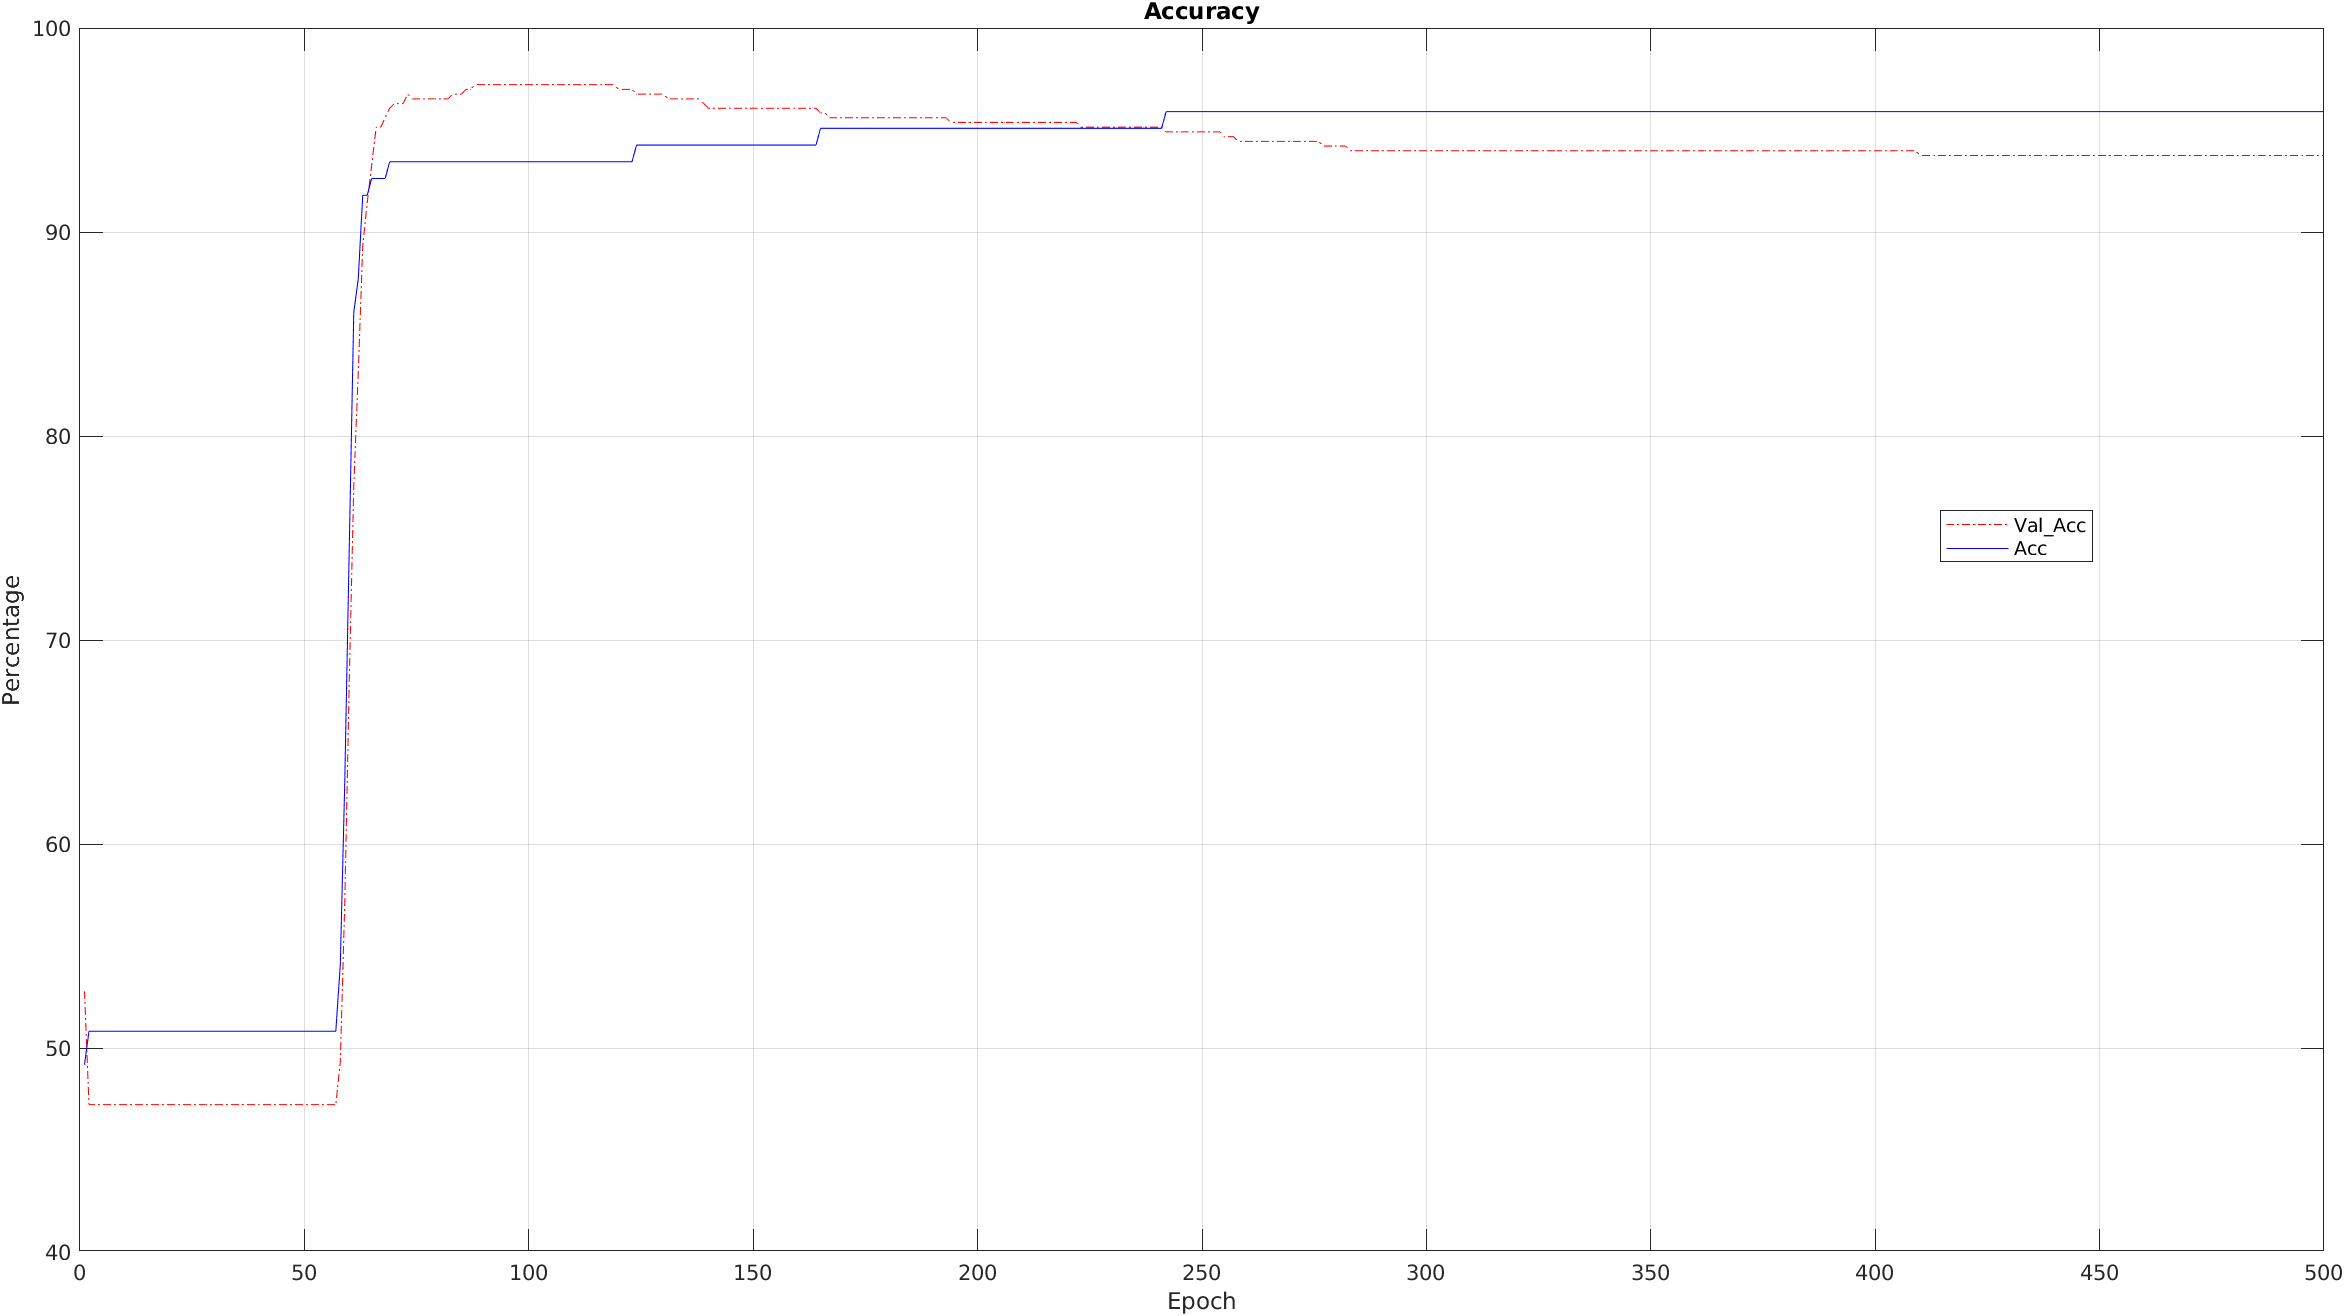
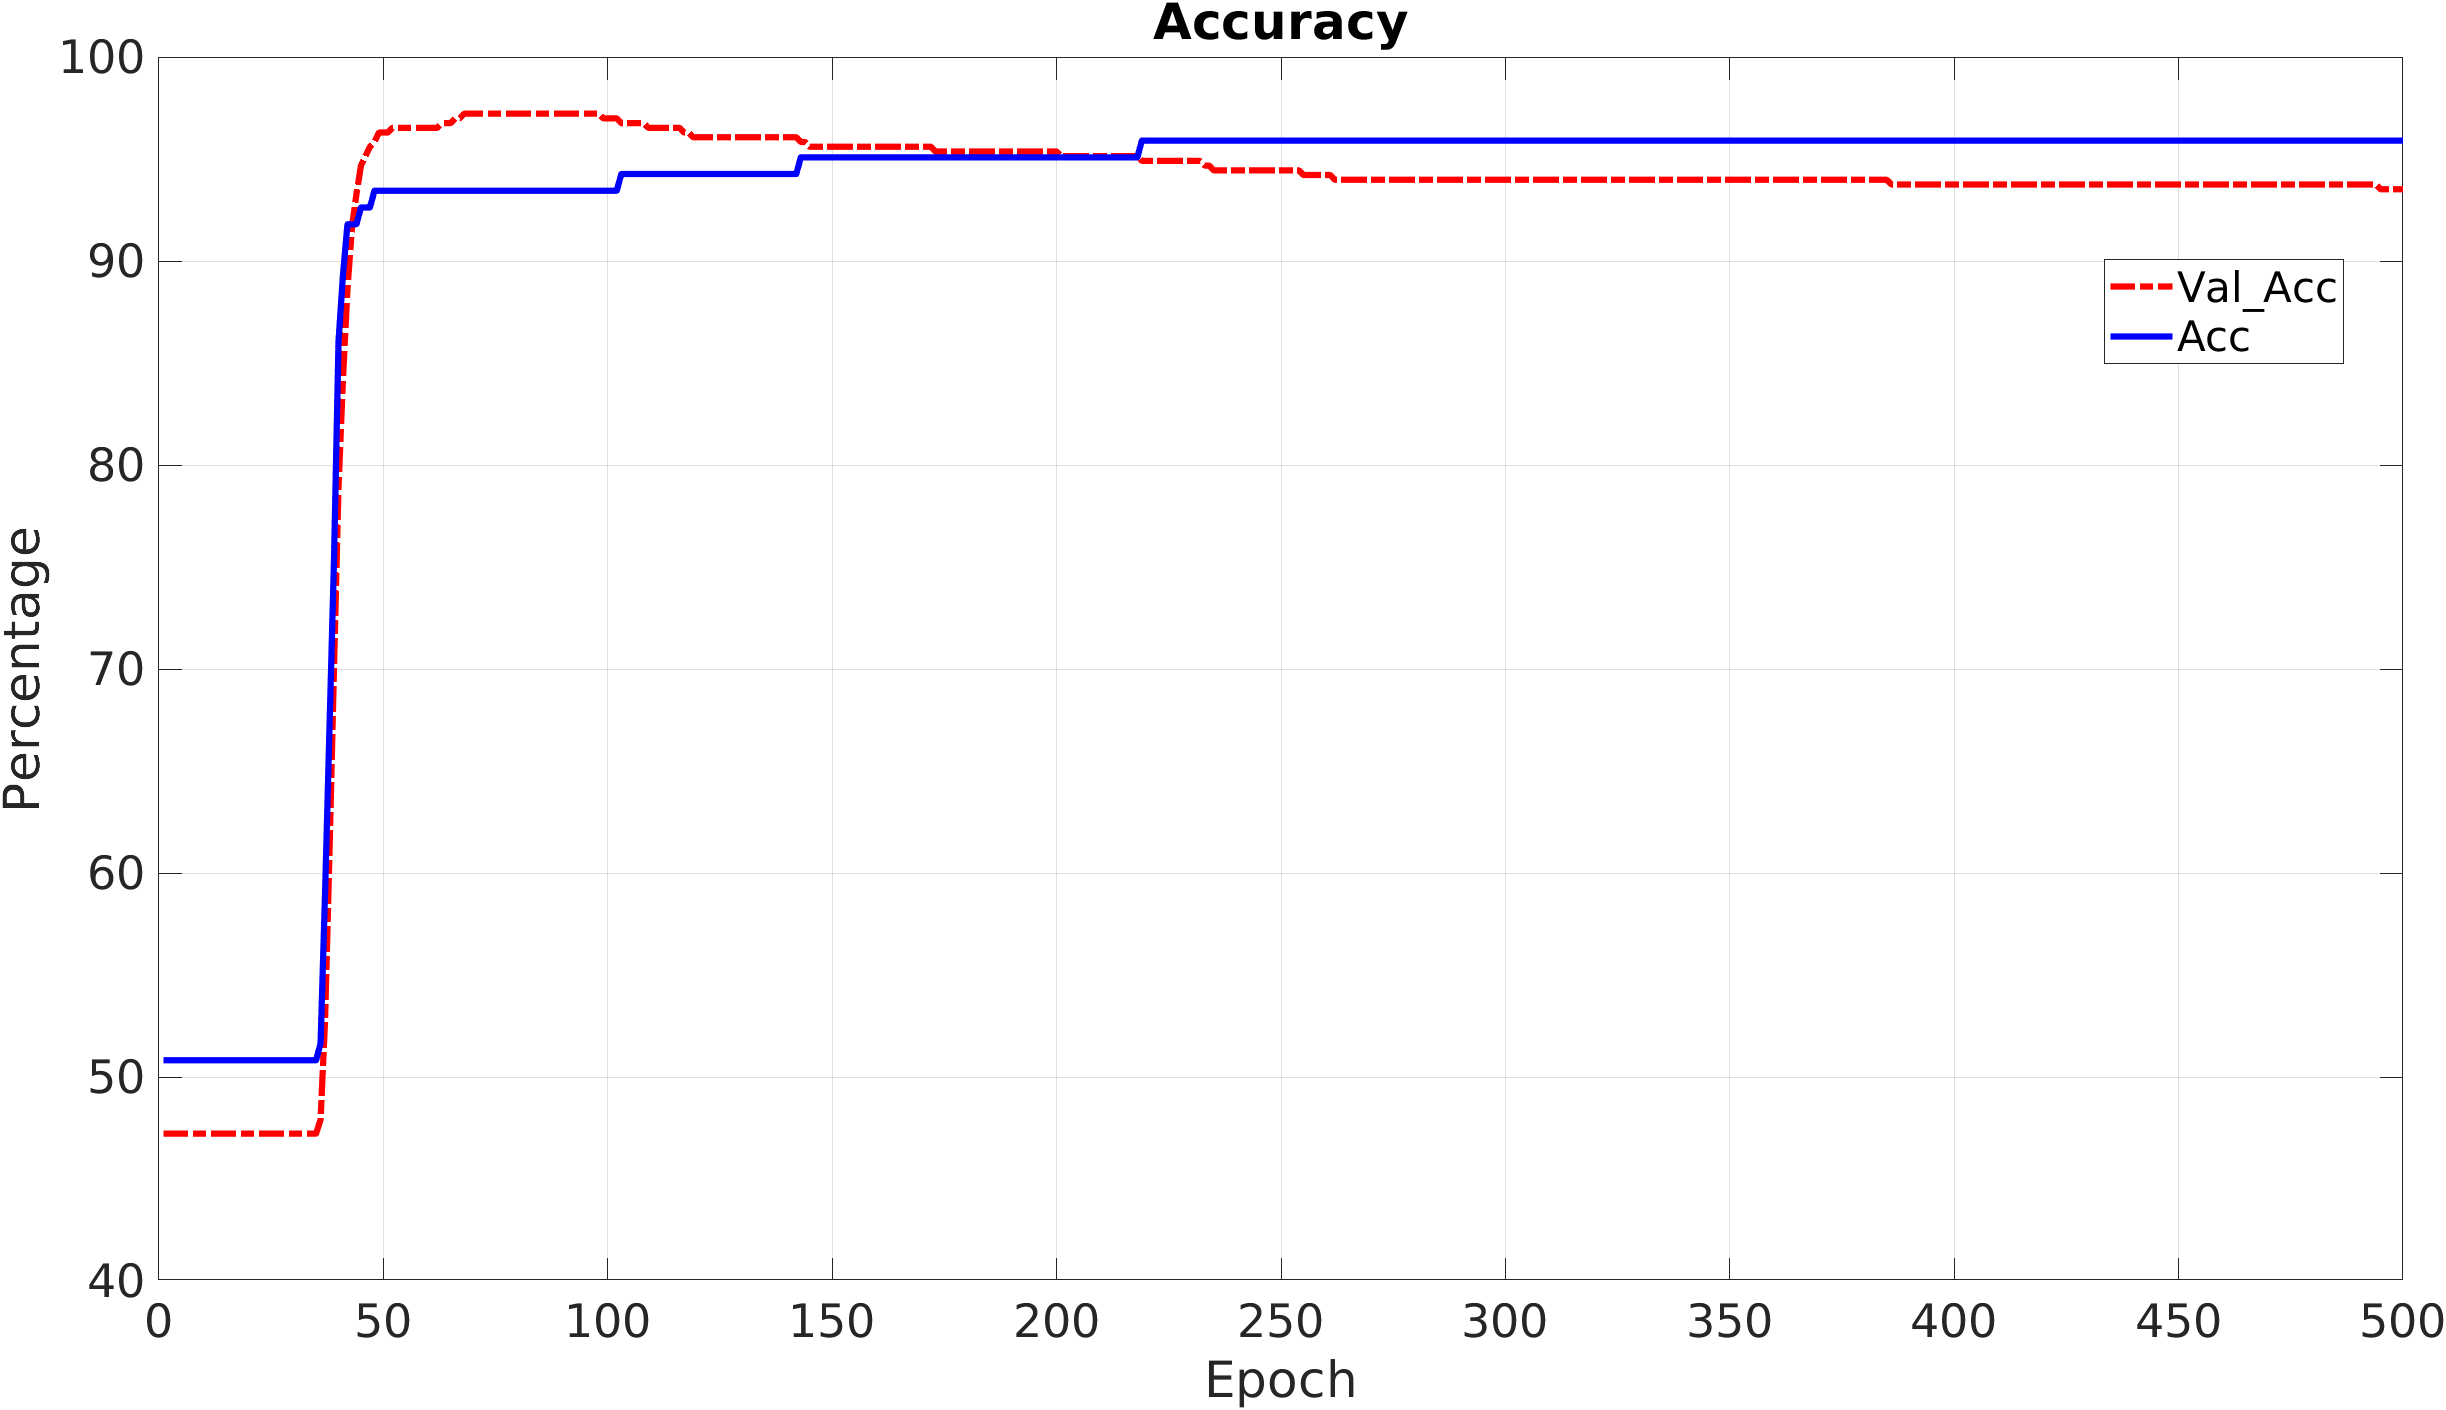
img

diff --git a/main.cpp b/main.cpp
@@ -17,14 +17,14 @@ int main() {
   arma::cout.precision(10);
   arma::cout.setf(arma::ios::fixed);
 
-  Preprocessing a("../../data/monk/monks3_train_formatted.csv");
+  Preprocessing a("../../data/monk/monks1_train_formatted.csv");
   arma::mat trainingSet;
   arma::mat validationSet;
   arma::mat testSet;
 
   a.GetSplit(100, 0, 0, std::move(trainingSet), std::move(validationSet), std::move(testSet));
 
-  testSet.load("../../data/monk/monks3_test_formatted.csv");
+  testSet.load("../../data/monk/monks1_test_formatted.csv");
   /*
    std::cout << trainingSet.n_rows << " " << trainingSet.n_cols << " " << validationSet.n_rows << " "
             << validationSet.n_cols
@@ -121,8 +121,8 @@ int main() {
 
   Network net;
   net.SetLossFunction("meanSquaredError");
-  Layer firstLayer(trainingSet.n_cols - labelCol, 5, "tanhFunction");
-  Layer lastLayer(5, 1, "logisticFunction");
+  Layer firstLayer(trainingSet.n_cols - labelCol, 3, "tanhFunction");
+  Layer lastLayer(3, 1, "logisticFunction");
   net.Add(firstLayer);
   net.Add(lastLayer);
 
@@ -132,11 +132,11 @@ int main() {
             testLabels,
             trainingSet,
             trainingLabels.n_cols,
-            500,
-            256,
-            0.4,
-            0.001,
-            0.2);
+            800,
+            trainingSet.n_rows,
+            0.9,
+            0,
+            0.7);
   arma::mat mat = arma::zeros(1, 1);
   net.TestWithThreshold(std::move(testData), std::move(testLabels), std::move(mat), 0.5);
   //net.Test(std::move(testData), std::move(testLabels), std::move(mat));
